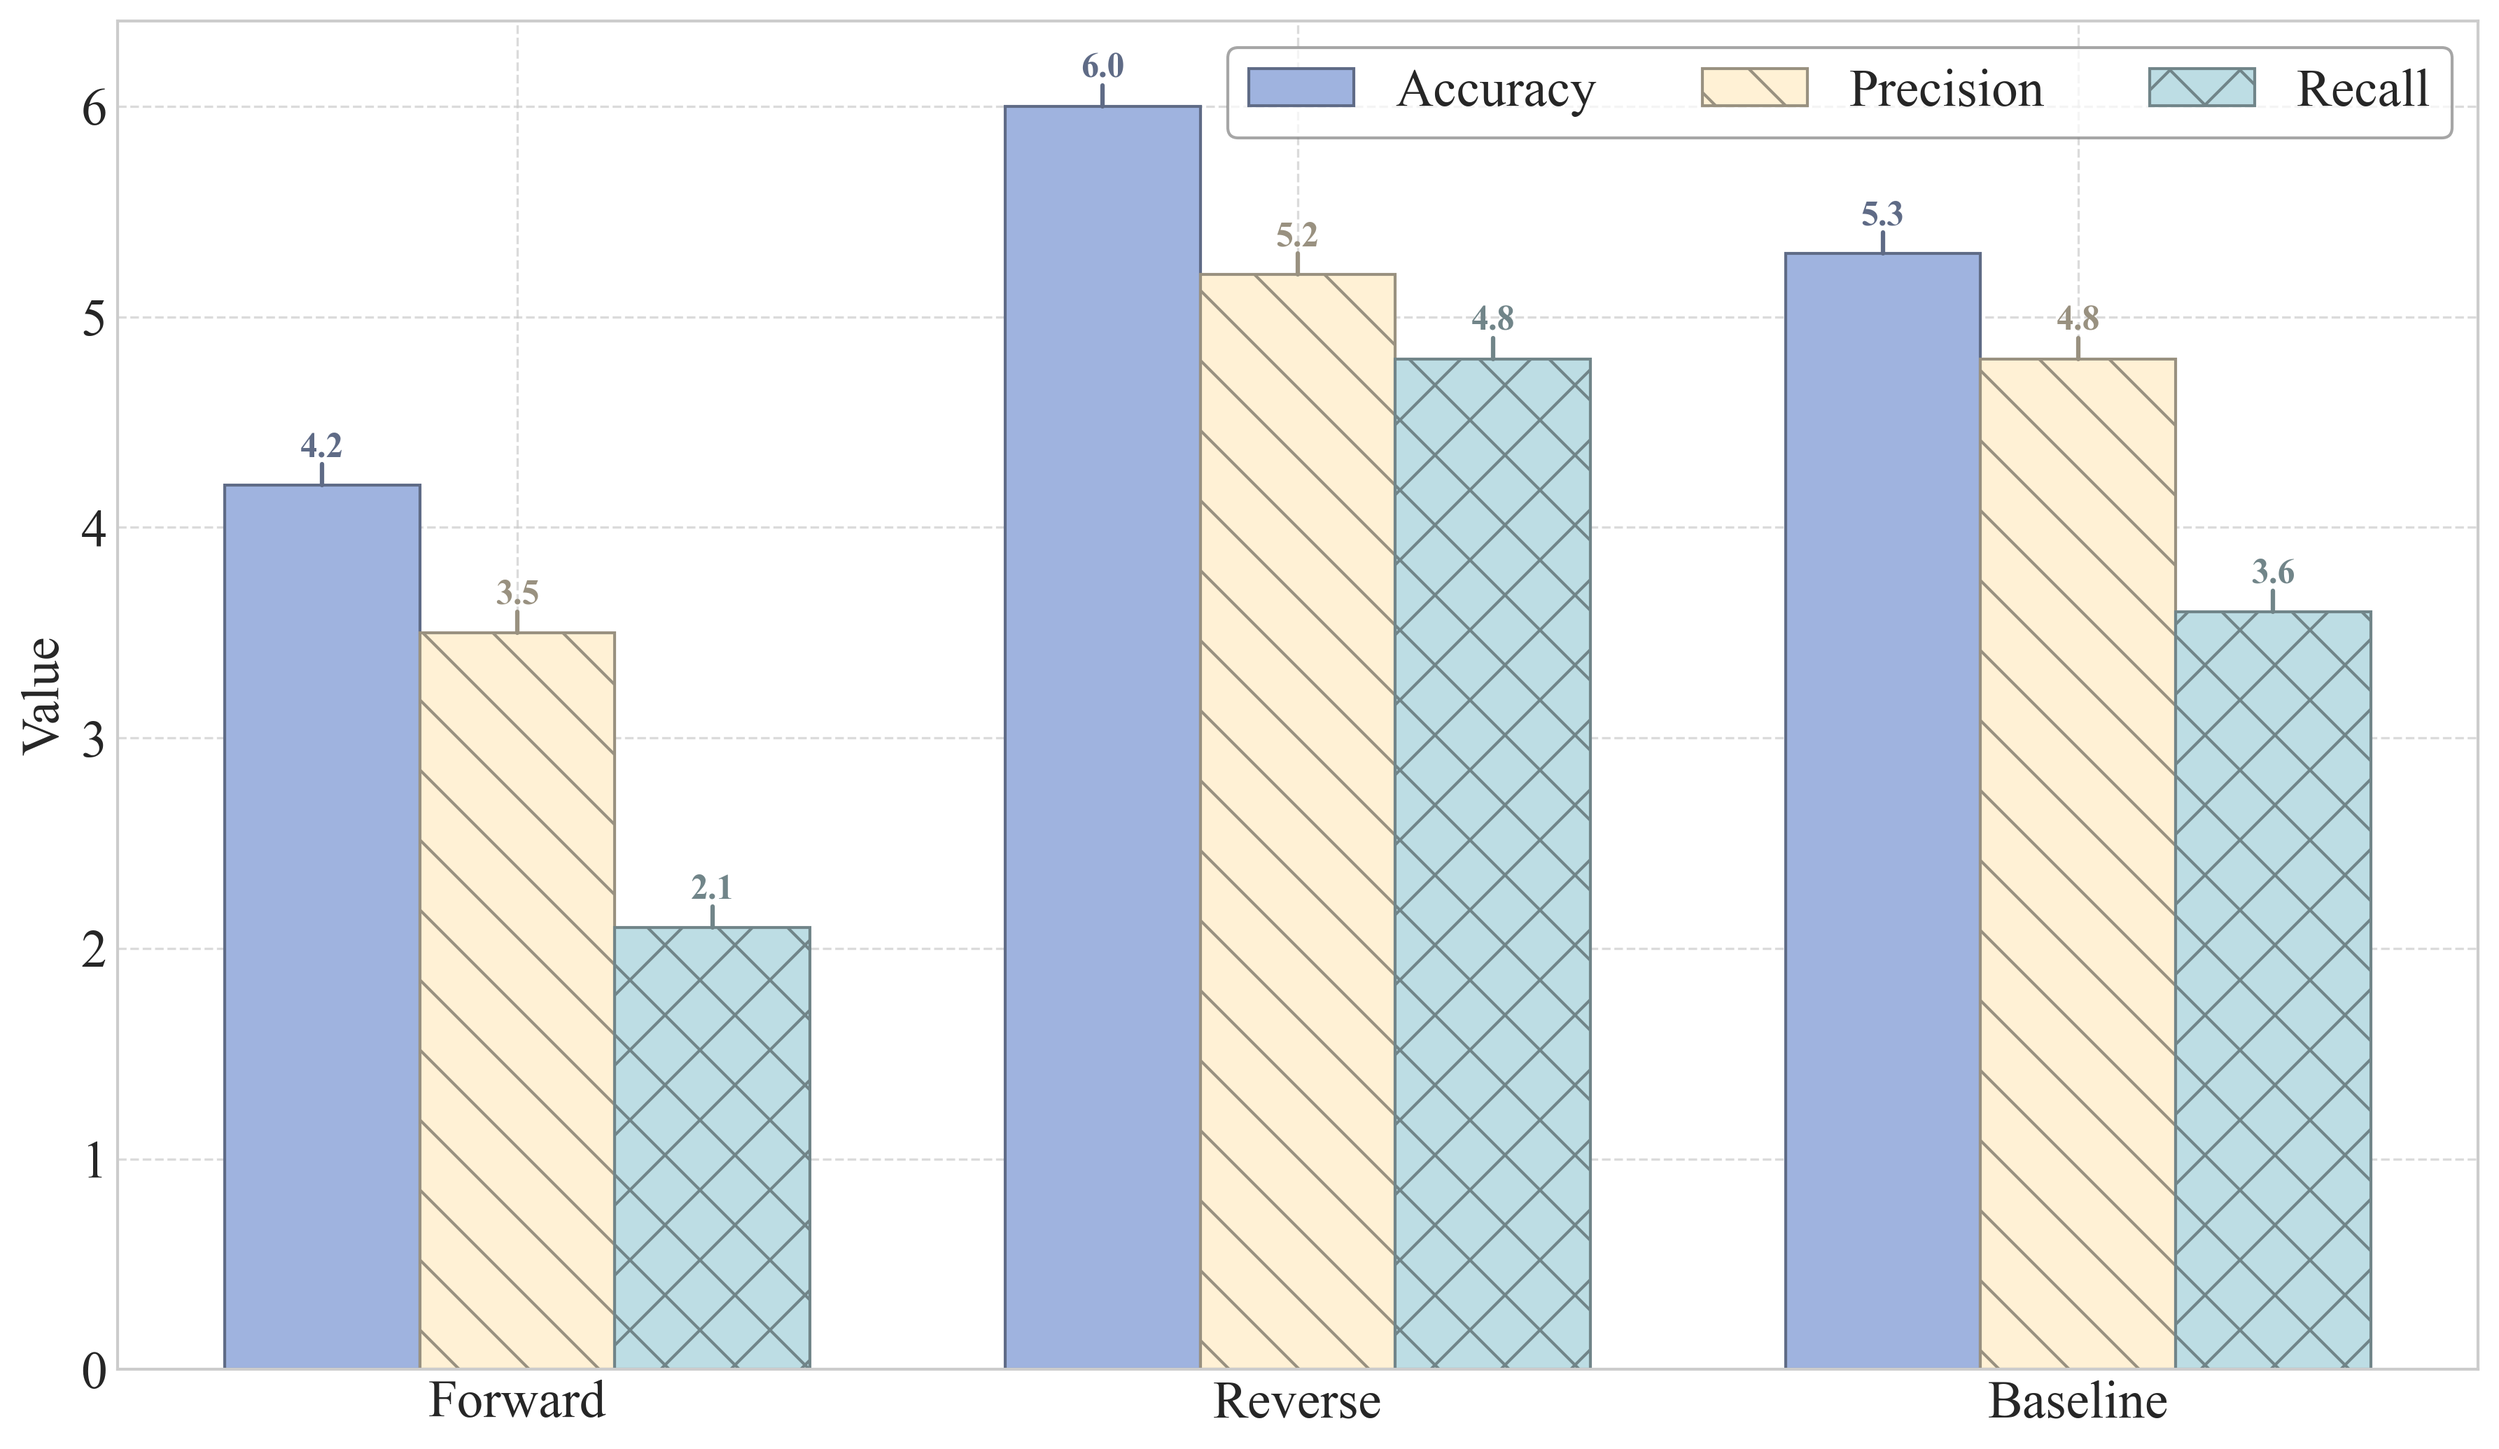
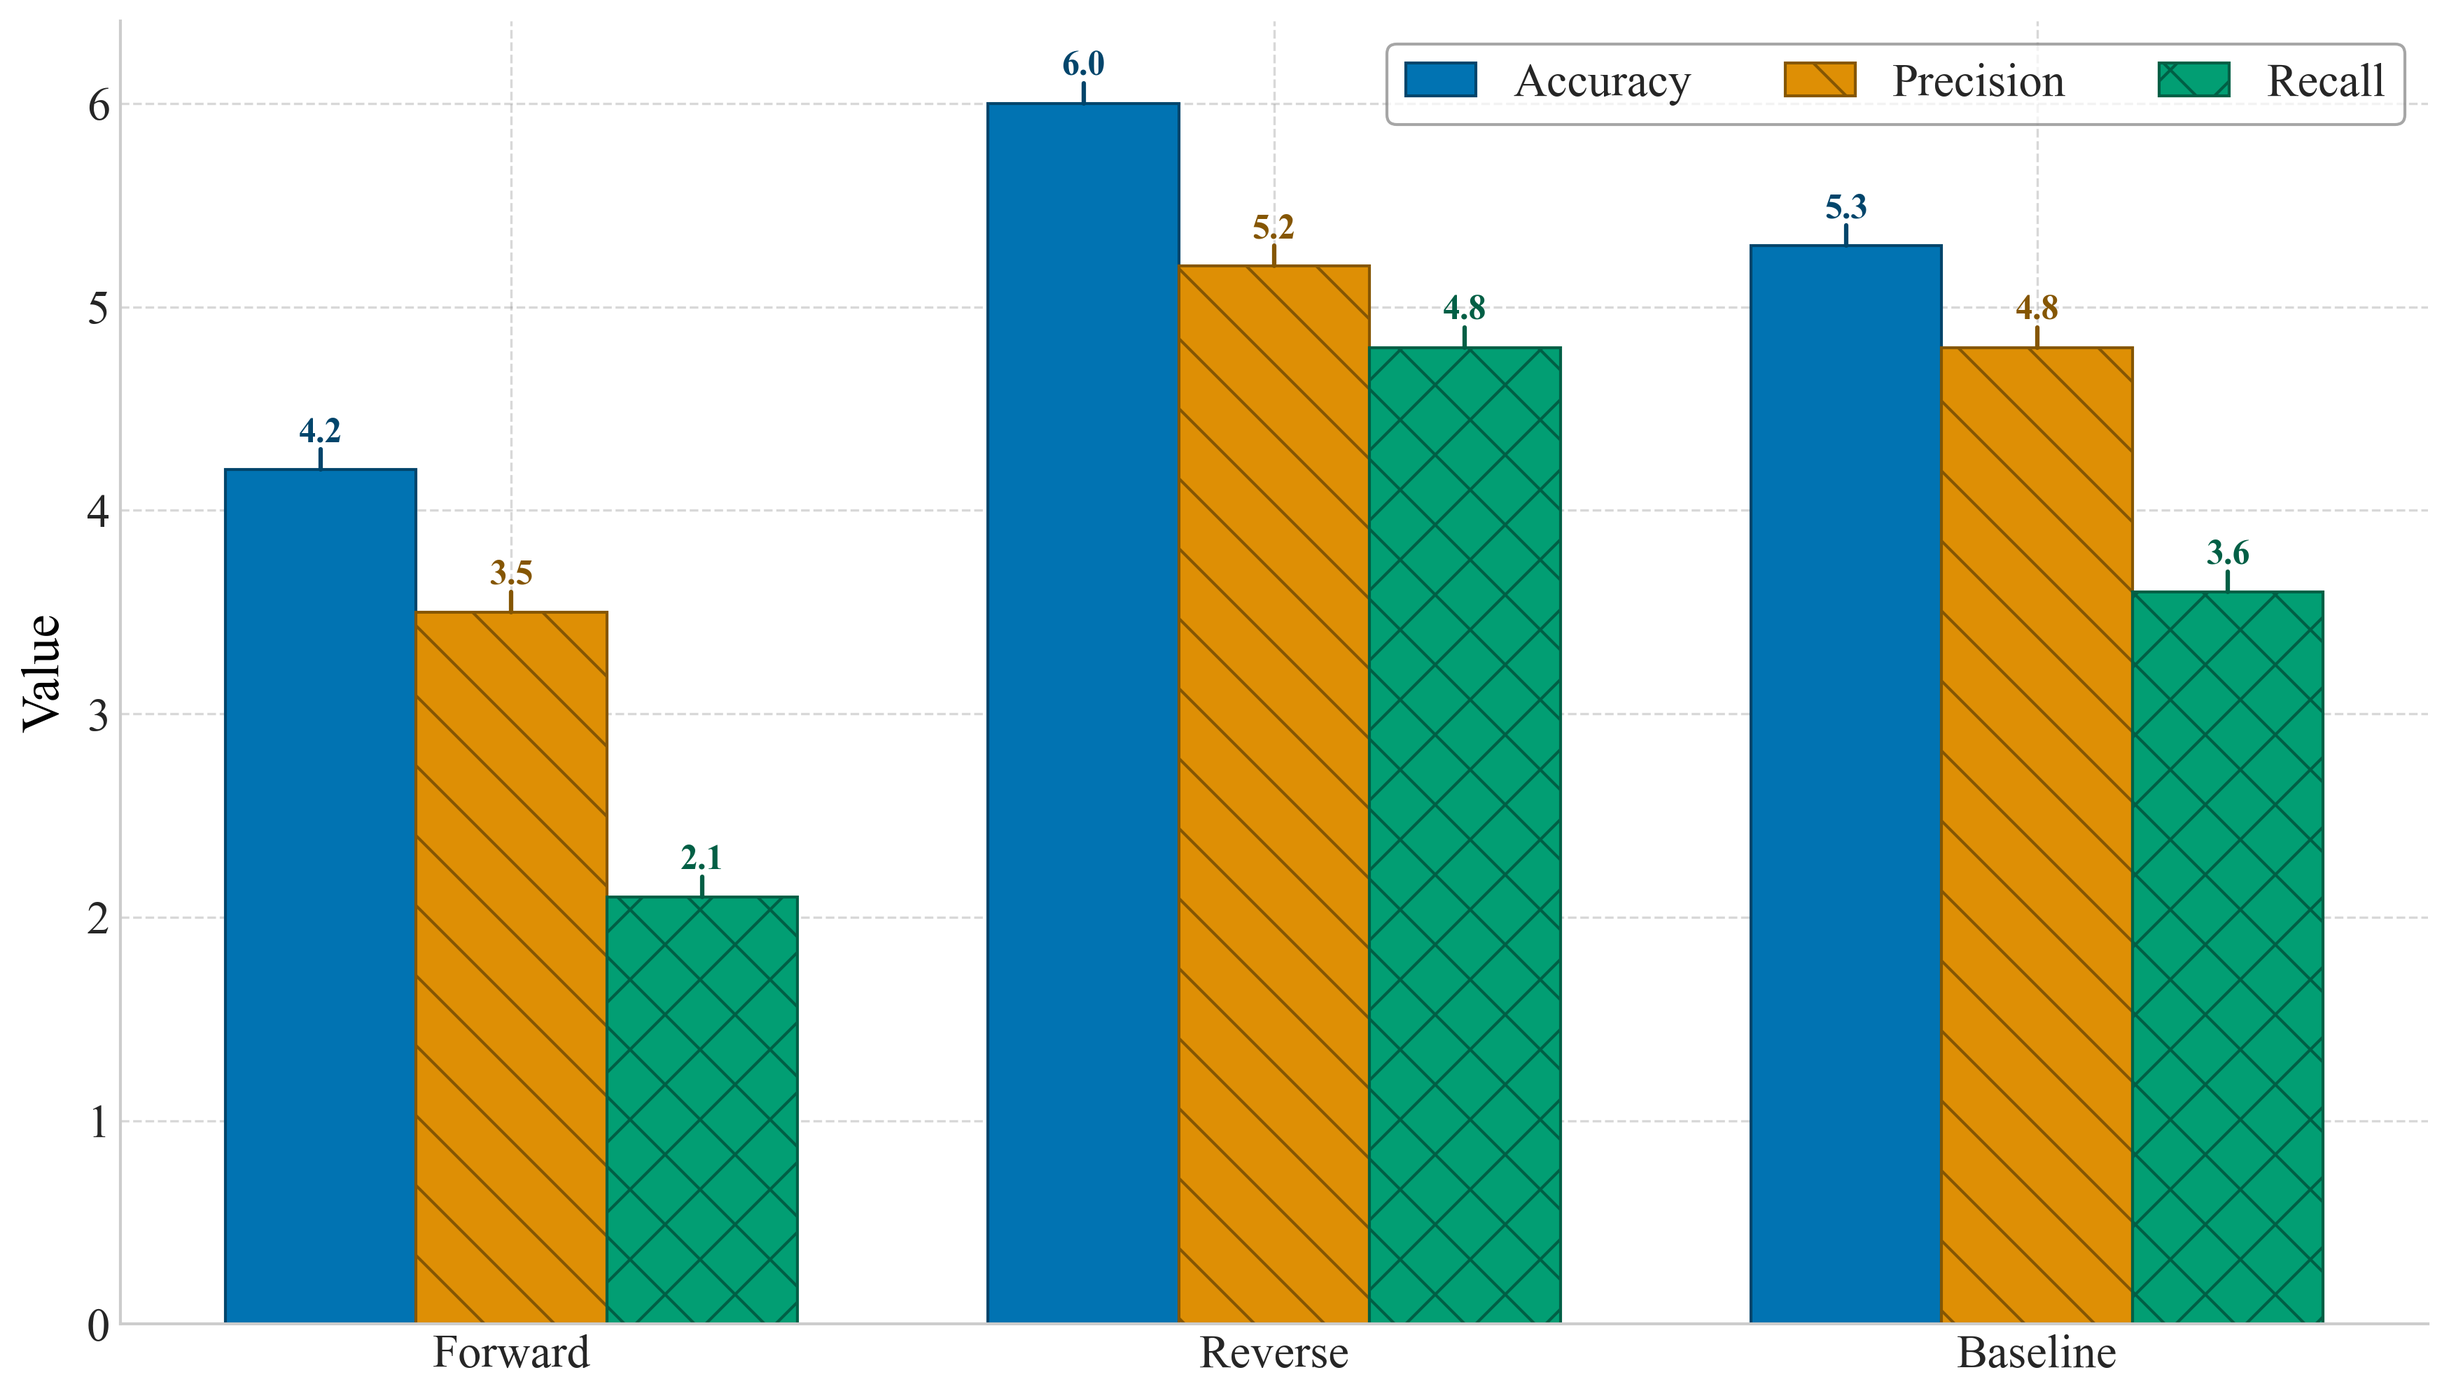
Fix colors

diff --git a/paperviz/plots/simple_bar_plot.py b/paperviz/plots/simple_bar_plot.py
@@ -43,7 +43,8 @@ def plot(
     metrics = list(data_dict[next(iter(data_dict))].keys())
 
     if not color_map:
-        color_map = {metric: mcolors.CSS4_COLORS[list(mcolors.CSS4_COLORS.keys())[i % len(mcolors.CSS4_COLORS)]] for i, metric in enumerate(metrics)}
+        # make all colors = None
+        color_map = {metric: None for metric in metrics}
 
     if not style_map:
         style_map = {metric: '/' for metric in metrics}
@@ -54,17 +55,18 @@ def plot(
         metric_values = [data[metric] for data in data_dict.values()]
 
         metric_color = color_map[metric]
-        metric_dark = mcolors.to_rgba(metric_color, alpha=1.0)
-        metric_dark = mcolors.to_hex([min(1, c * 0.6) for c in metric_dark[:3]])
         hatch = style_map.get(metric, '/')
 
         bar_positions = indices + (i - len(metrics) / 2) * bar_width
         bar_positions_list.append(bar_positions)
         bar_container = ax.bar(bar_positions, metric_values, bar_width,
-                               label=metric, color=metric_color, edgecolor=metric_dark, linewidth=1, hatch=hatch)
+                               label=metric, color=metric_color, linewidth=1, hatch=hatch)
         bar_containers.append(bar_container)
 
         for rect in bar_container:
+            metric_dark=mcolors.to_rgba(rect.get_facecolor(), alpha=1.0)
+            metric_dark=mcolors.to_hex([min(1, c * 0.6) for c in metric_dark[:3]])
+            rect.set_edgecolor(metric_dark)
             height = rect.get_height()
             ax.text(rect.get_x() + rect.get_width() / 2, height + 0.1, f'{height:.1f}', ha='center', va='bottom',
                     color=metric_dark, fontweight='bold', fontsize=12)

diff --git a/docs/_static/snippets/plots/general_bar_plot.py b/docs/_static/snippets/plots/general_bar_plot.py
@@ -15,11 +15,7 @@ data_dict = {
 }
 
 # Color map where 'Reward' is assigned blue and 'Goal' is assigned pink
-color_map = {
-    "Accuracy": "#9FB3DF",
-    "Precision": "#FFF1D5",
-    "Recall": "#BDDDE4"
-}
+
 
 # Style map for each metric (hatch patterns for filling)
 style_map = {
@@ -28,5 +24,5 @@ style_map = {
     "Recall": 'x'  # Cross hatch pattern for Recall
 }
 
-plot("general_bar_plot",data_dict,color_map=color_map,style_map=style_map,save="bar")
+plot("general_bar_plot",data_dict,style_map=style_map,save="bar")
 plt.show()

diff --git a/docs/plots/collection/general_bar_plot.md b/docs/plots/collection/general_bar_plot.md
@@ -42,11 +42,7 @@ data_dict = {
 }
 
 # Color map where 'Reward' is assigned blue and 'Goal' is assigned pink
-color_map = {
-    "Accuracy": "#9FB3DF",
-    "Precision": "#FFF1D5",
-    "Recall": "#BDDDE4"
-}
+
 
 # Style map for each metric (hatch patterns for filling)
 style_map = {
@@ -55,7 +51,7 @@ style_map = {
     "Recall": 'x'  # Cross hatch pattern for Recall
 }
 
-plot("general_bar_plot",data_dict,color_map=color_map,style_map=style_map,save="bar")
+plot("general_bar_plot",data_dict,style_map=style_map,save="bar")
 plt.show()
 
 ```
